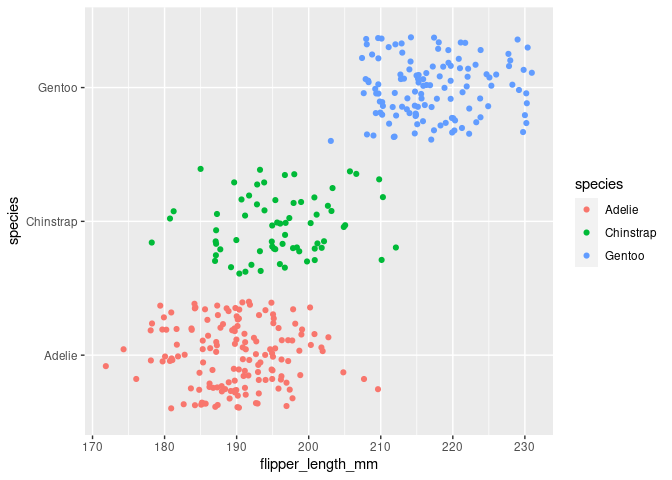
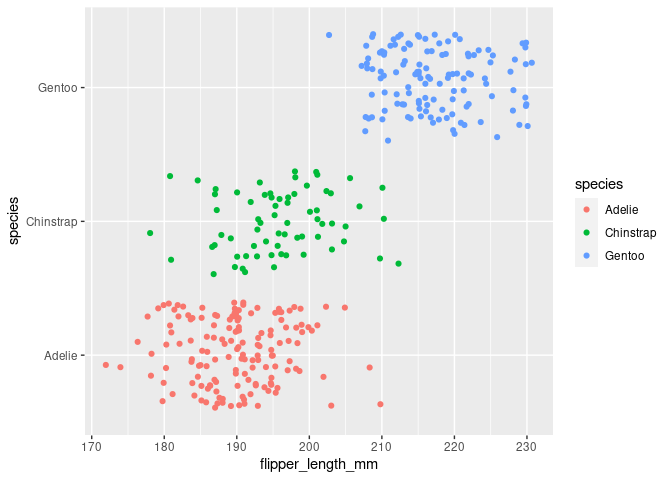
created more plots with aesthetics

diff --git a/activity02-ggplot2-intro.md b/activity02-ggplot2-intro.md
@@ -188,7 +188,8 @@ GitHub and compare/contrast your `activity02-ggplot2-intro.Rmd` and
 `activity02-ggplot2-intro.md` files. Which is easier to read? Which
 looks more professional?
 
-**Response**:
+**Response**: The markdown file is a lot easier to read and looks more
+professional.
 
 Now, wouldn’t it be nice if we could combine these two plots so that we
 get the benefits of both!?! That is, how can we overlay the jitterplot
@@ -198,10 +199,23 @@ my *hint*:
 -   Re-create the boxplot with color that you did above, then
 -   *Add* another geometry layer for the jitterplot.
 
+``` r
+ggplot(data = penguins, mapping = aes(x = flipper_length_mm, y = species, fill = species)) +
+  geom_boxplot() +
+  geom_jitter()
+```
+
+    ## Warning: Removed 2 rows containing non-finite values (stat_boxplot).
+
+    ## Warning: Removed 2 rows containing missing values (geom_point).
+
+![](activity02-ggplot2-intro_files/figure-gfm/box-jitter-combined-1.png)<!-- -->
+
 Play around with doing the jitterplot laid over the boxplot and the
 boxplot laid over the jitterplot. Which do you prefer? Why?
 
-**Response**:
+**Response**: I prefer the jitterplot over hte boxplot because the
+boxplot over the jitterplot woulf cover the data points.
 
 This is getting us closer to one of my favorite plots - the raincloud
 plot. We are not quite ready to create this plot, but we will get there
@@ -215,12 +229,25 @@ default white coloring. In the code chunk below, explore different
 methods to try to create this plot. A hint, all `geom_*` have a
 `mapping` argument.
 
+``` r
+ggplot(data = penguins, mapping = aes(x = flipper_length_mm, y = species)) +
+  geom_boxplot() +
+  geom_jitter(mapping = aes(color=species))
+```
+
+    ## Warning: Removed 2 rows containing non-finite values (stat_boxplot).
+
+    ## Warning: Removed 2 rows containing missing values (geom_point).
+
+![](activity02-ggplot2-intro_files/figure-gfm/jitter-colored-only-1.png)<!-- -->
+
 In the above code chunk, continue to play around with having the
 aesthetics mapped in the different layers. For example, how does having
 all of them mapped in the `ggplot` call compared to having these instead
 mapped in the `geom_boxplot` layer? Comment on what you notice.
 
-**Response**:
+**Response**: ggplot will apply the aesthetic to all layers where in
+just a specific layer it will be applied to that specific layer.
 
 Knit, then stage everything listed in your **Git** pane, commit (with a
 meaningful commit message), and push to your GitHub repo. Go to GitHub
